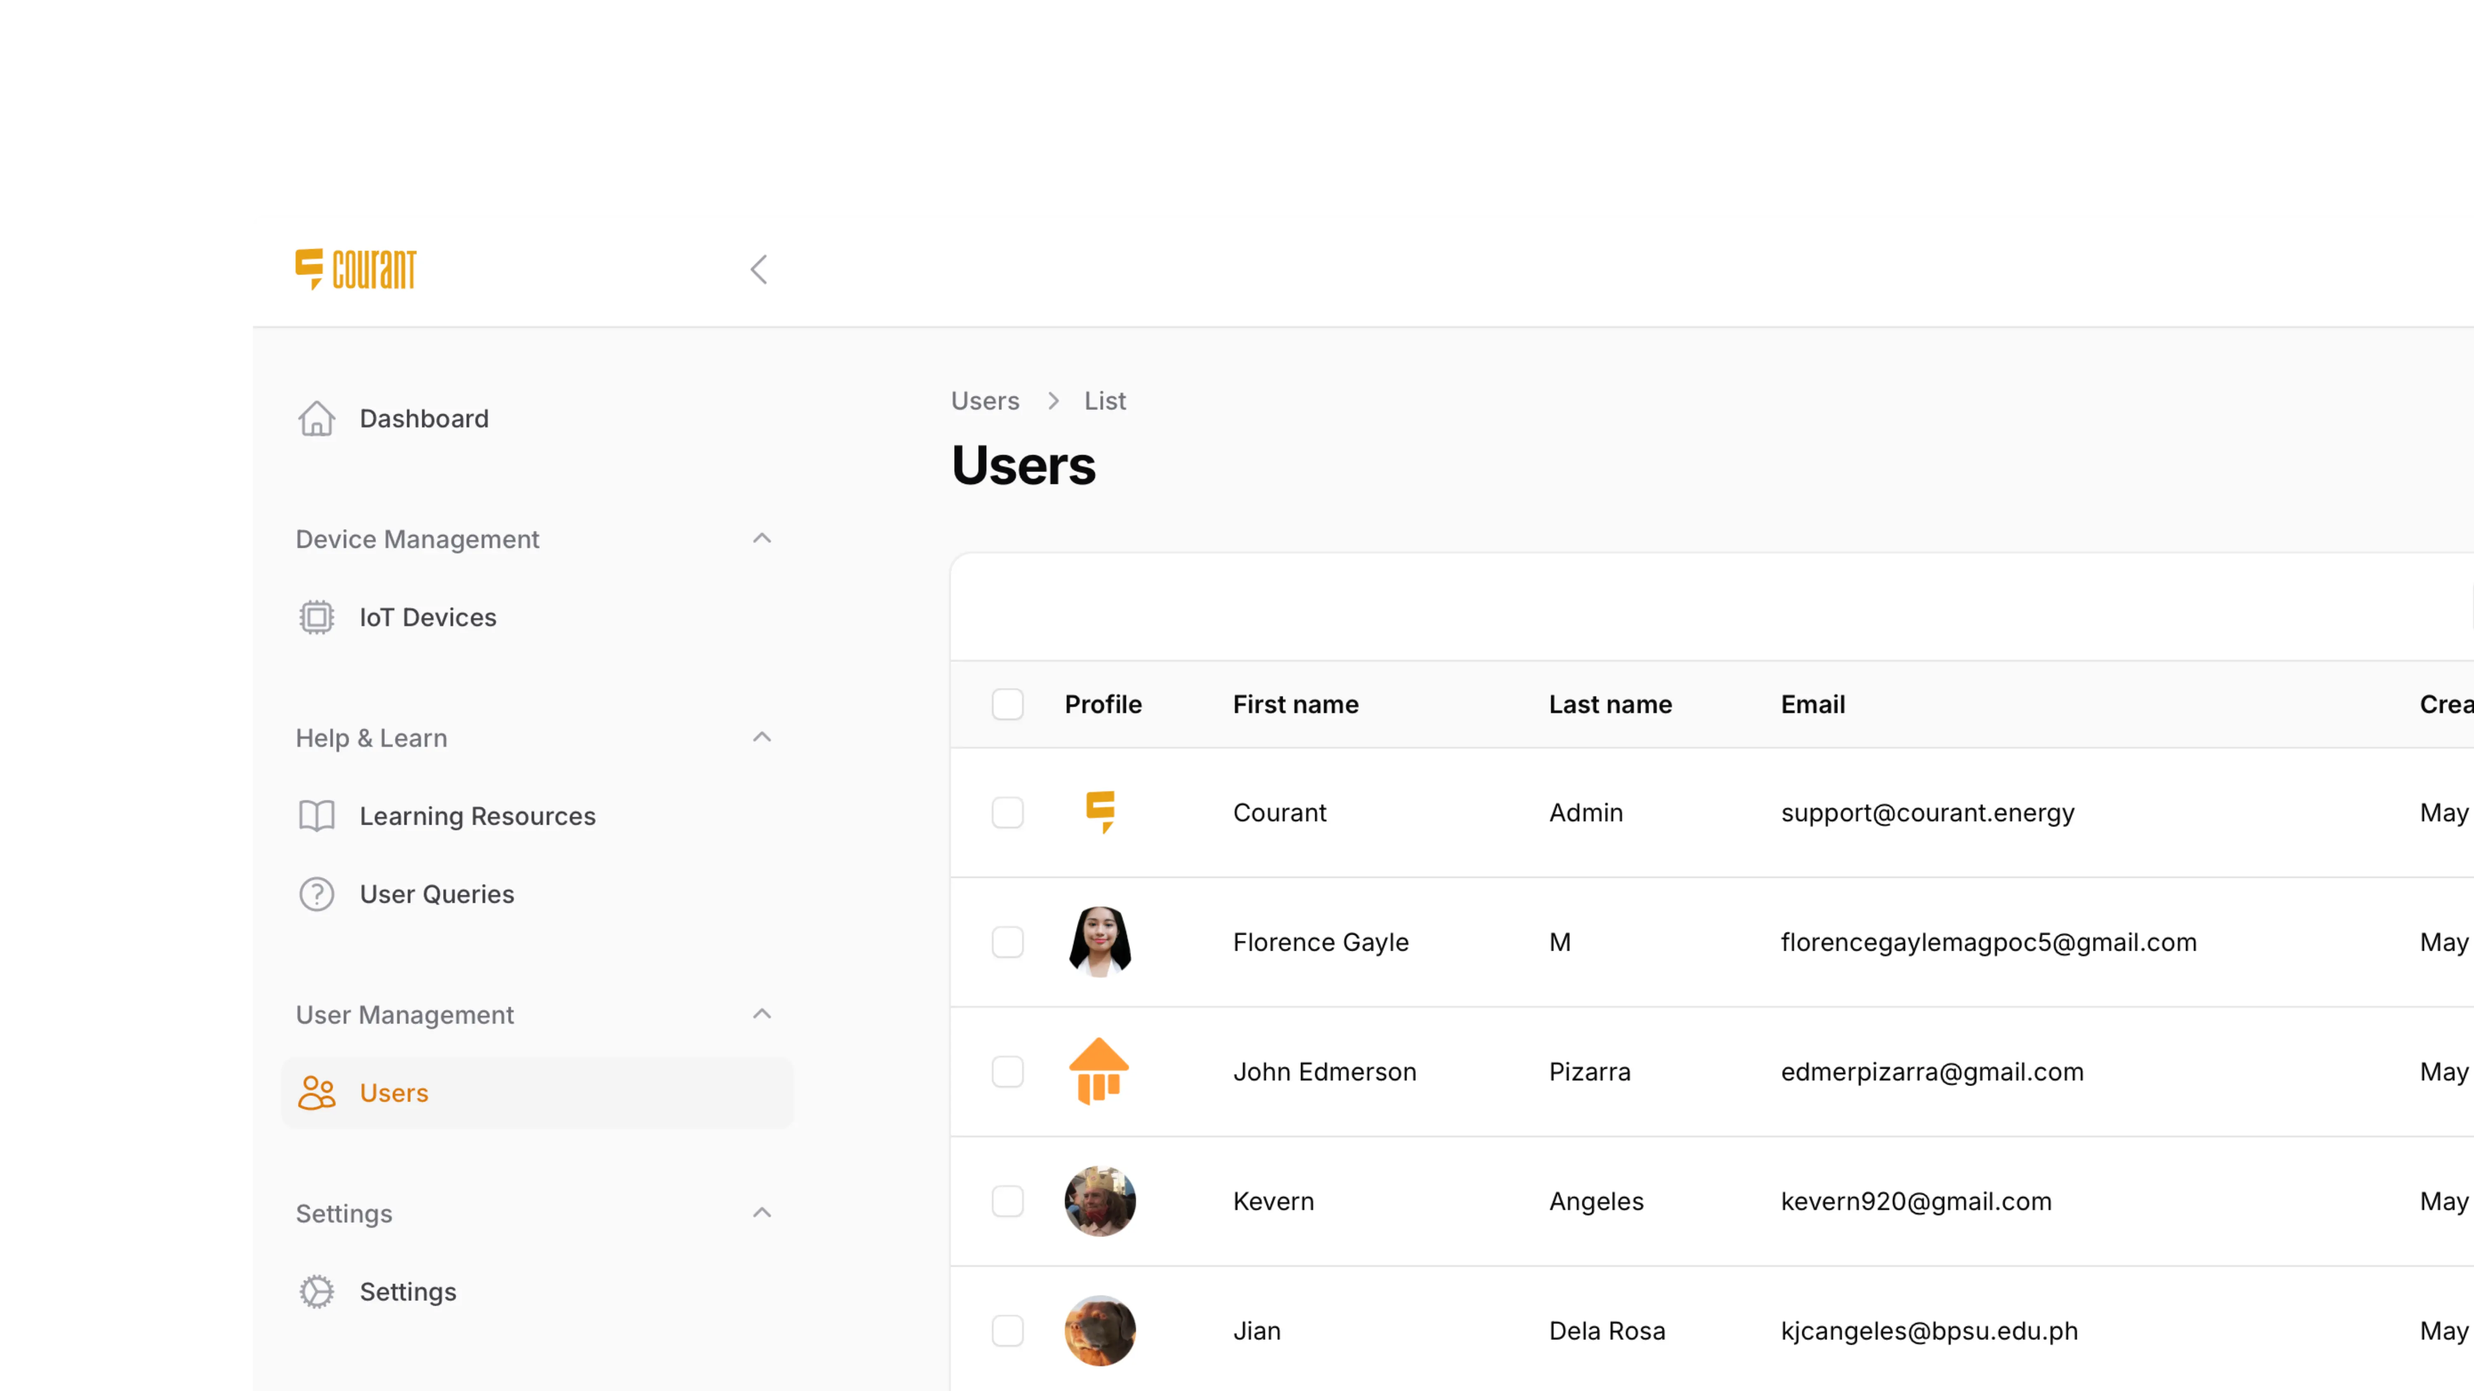
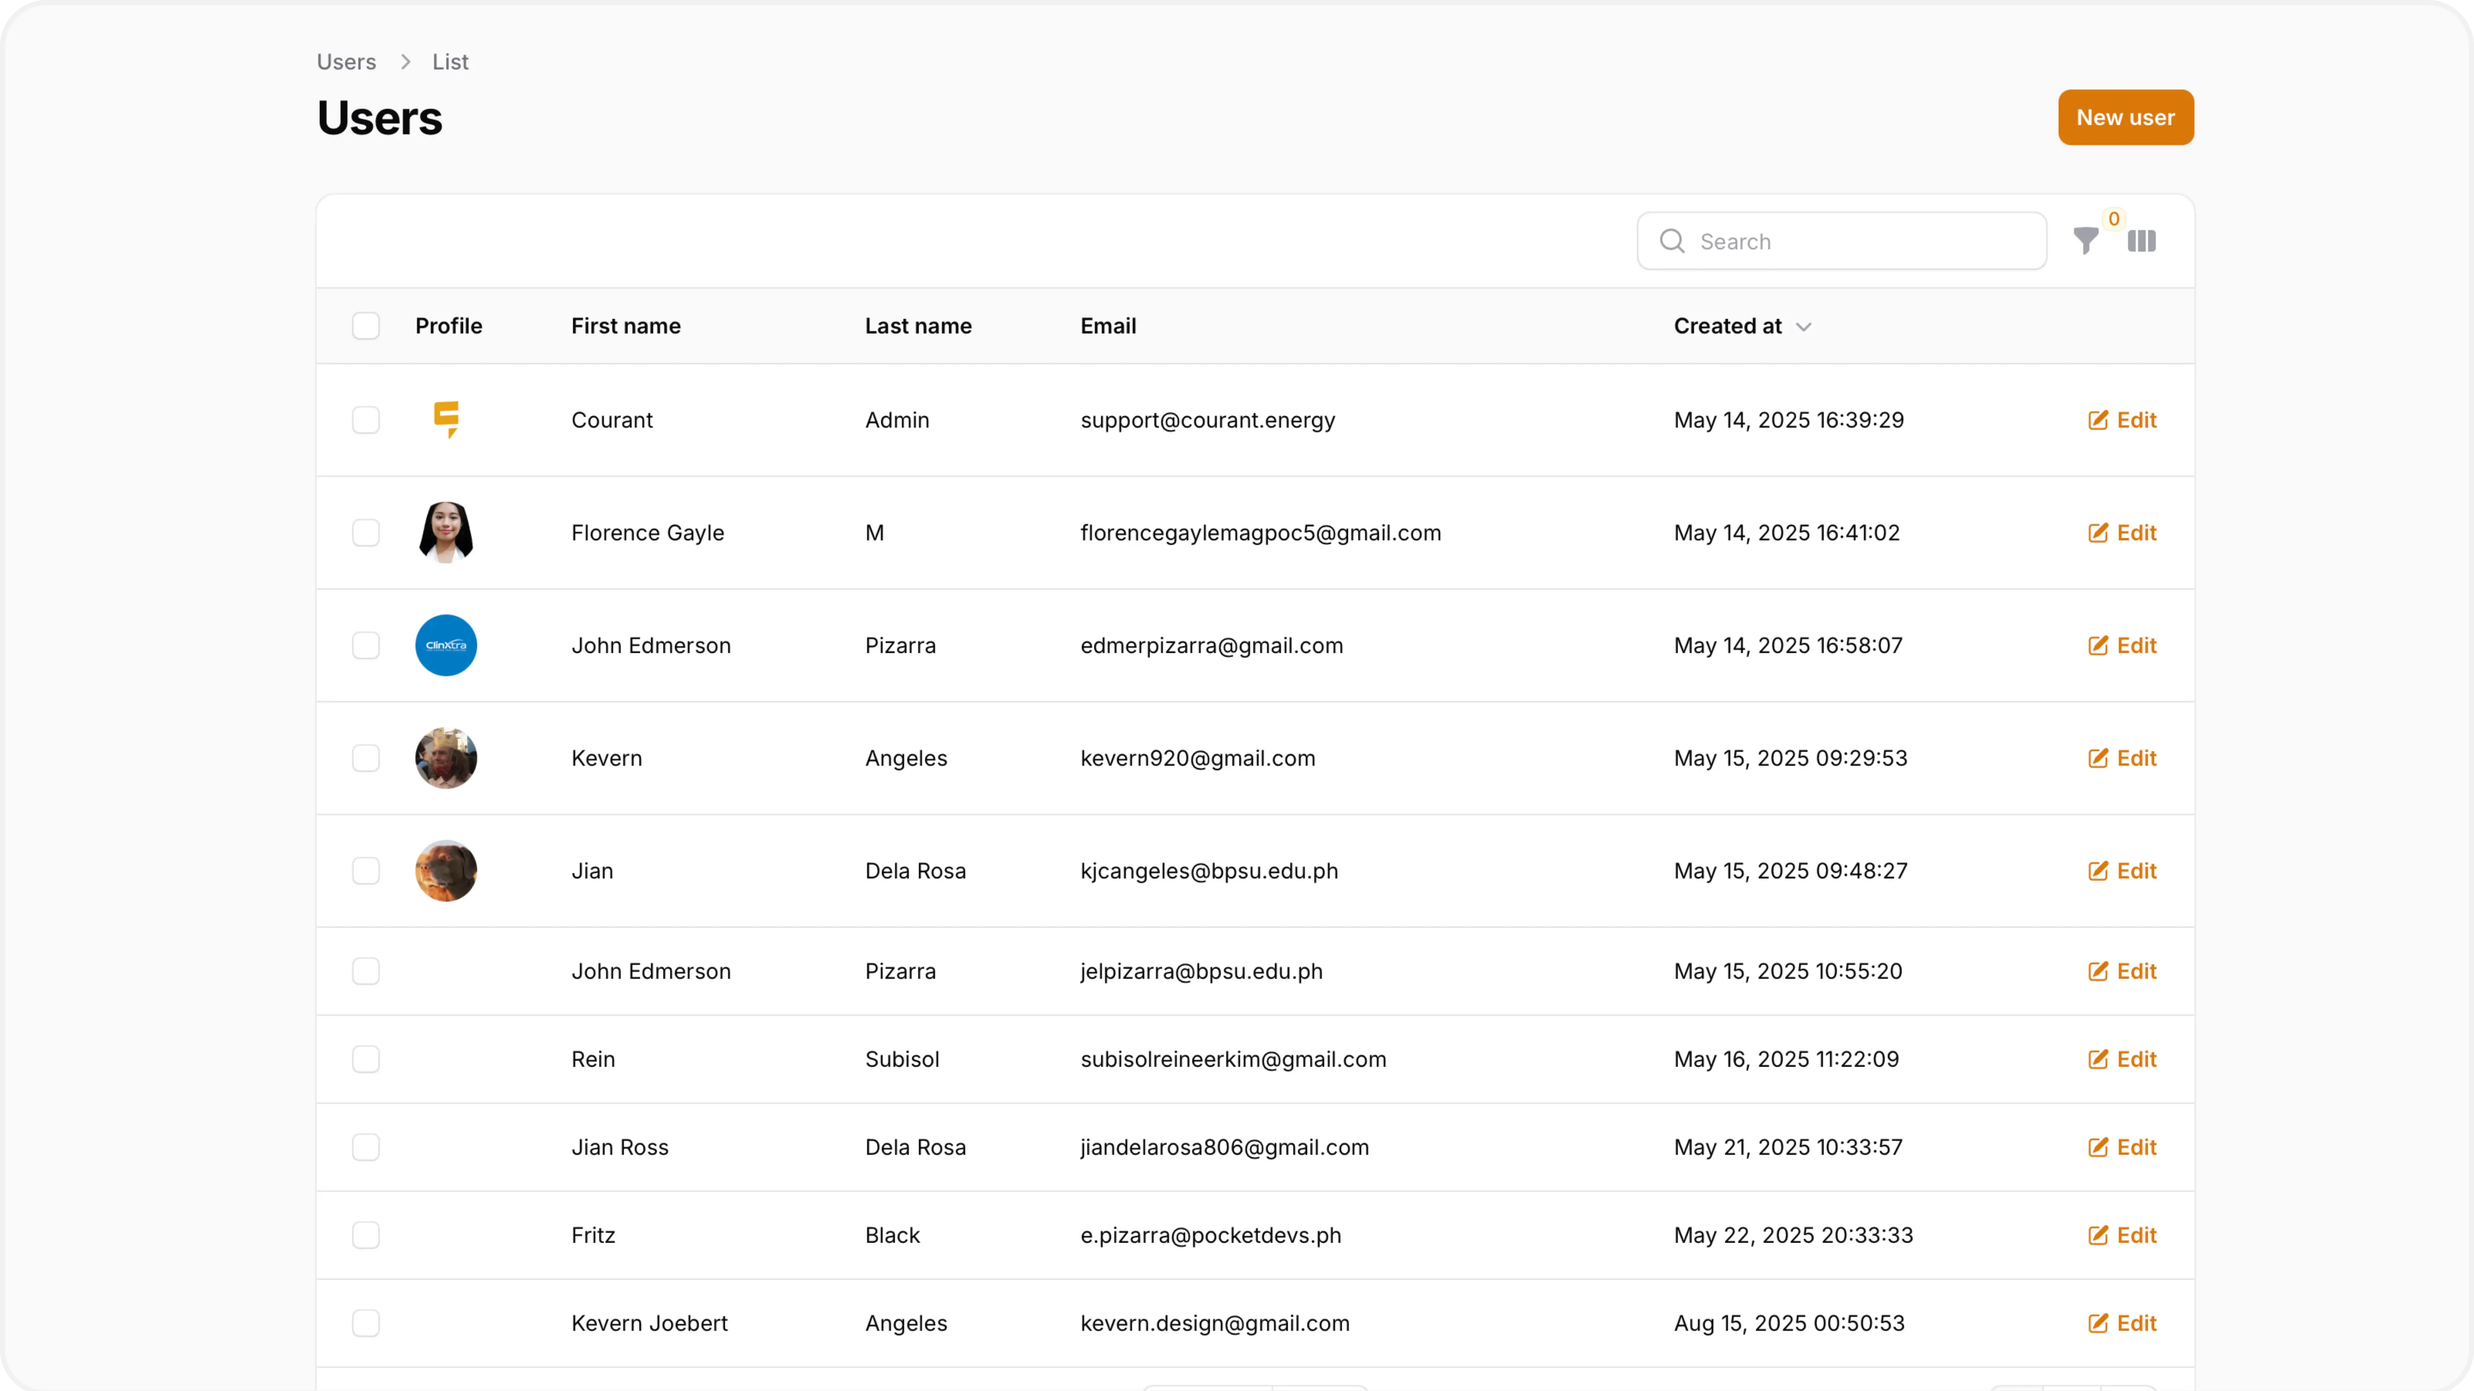
chore: clean up animations and add missing images

diff --git a/resources/js/animations/cursorXHeroInteraction.js b/resources/js/animations/cursorXHeroInteraction.js
@@ -1,7 +1,6 @@
 import gsap from "gsap";
 
 export default function cursorXHeroInteraction() {
-
     const container = document.querySelector(".mockups-container");
     const track = container?.querySelector(".mockups-track");
 
@@ -28,58 +27,68 @@ export default function cursorXHeroInteraction() {
         return overflow > 0 ? overflow / 1.1 : 0;
     }
 
-    // STEP 2
-    if (isMobile) {
-        // STEP 2A: On mobile, move based on scroll position
-        window.addEventListener("scroll", () => {
-            const containerTop = container.offsetTop;
-            const scrollY = window.scrollY;
-            const containerHeight = container.offsetHeight;
-            const viewportHeight = window.innerHeight;
+    // STEP 2: Use IntersectionObserver to start animation when container is visible
+    const observer = new IntersectionObserver(
+        (entries) => {
+            entries.forEach((entry) => {
+                if (entry.isIntersecting) {
+                    if (isMobile) {
+                        // STEP 2A: On mobile, move based on scroll position
+                        window.addEventListener("scroll", () => {
+                            const containerTop = container.offsetTop;
+                            const scrollY = window.scrollY;
+                            const containerHeight = container.offsetHeight;
+                            const viewportHeight = window.innerHeight;
 
-            const progress = gsap.utils.clamp(
-                0,
-                1,
-                (scrollY + viewportHeight - containerTop) / (containerHeight + viewportHeight)
-            );
+                            const progress = gsap.utils.clamp(
+                                0,
+                                1,
+                                (scrollY + viewportHeight - containerTop) / (containerHeight + viewportHeight)
+                            );
 
-            const shiftX = gsap.utils.clamp(
-                -getMaxShift(),
-                getMaxShift(),
-                gsap.utils.mapRange(0, 1, getMaxShift(), -getMaxShift(), progress)
-            );
-            console.log('shiftX:', shiftX);
-            
+                            const shiftX = gsap.utils.clamp(
+                                -getMaxShift(),
+                                getMaxShift(),
+                                gsap.utils.mapRange(0, 1, getMaxShift() + containerHeight + 100, -getMaxShift(), progress)
+                            );
+                            console.log('shiftX:', shiftX);
 
-            gsap.to(track, {
-                x: shiftX,
-                duration: 0.4,
-                ease: "power2.out"
+                            gsap.to(track, {
+                                x: shiftX,
+                                duration: 0.4,
+                                ease: "power2.out"
+                            });
+                        });
+                    } else {
+                        // STEP 2B: Track mouse X movement for horizontal shift
+                        container.addEventListener("mousemove", (e) => {
+                            const bounds = container.getBoundingClientRect();
+                            const x = e.clientX - bounds.left;
+                            const percent = x / bounds.width;
+
+                            const shiftX = gsap.utils.mapRange(0, 1, getMaxShift(), -getMaxShift(), percent);
+
+                            gsap.to(track, {
+                                x: shiftX,
+                                duration: 0.4,
+                                ease: "power2.out"
+                            });
+                        });
+
+                        // STEP 3: Reset X position on mouse leave
+                        container.addEventListener("mouseleave", () => {
+                            gsap.to(track, {
+                                x: 0,
+                                duration: 0.6,
+                                ease: "power3.out"
+                            });
+                        });
+                    }
+                }
             });
-        });
-    } else {
-        // STEP 2B: Track mouse X movement for horizontal shift
-        container.addEventListener("mousemove", (e) => {
-            const bounds = container.getBoundingClientRect();
-            const x = e.clientX - bounds.left;
-            const percent = x / bounds.width;
+        },
+        { threshold: 0.8 } // Trigger when at least 10% of the container is visible
+    );
 
-            const shiftX = gsap.utils.mapRange(0, 1, getMaxShift(), -getMaxShift(), percent);
-
-            gsap.to(track, {
-                x: shiftX,
-                duration: 0.4,
-                ease: "power2.out"
-            });
-        });
-
-        // STEP 3: Reset X position on mouse leave
-        container.addEventListener("mouseleave", () => {
-            gsap.to(track, {
-                x: 0,
-                duration: 0.6,
-                ease: "power3.out"
-            });
-        });
-    }
+    observer.observe(container);
 }

diff --git a/resources/js/animations/heroSubtext.js b/resources/js/animations/heroSubtext.js
@@ -10,10 +10,15 @@ export default function heroSubtext() {
 
     const isMobile = window.matchMedia("(max-width: 768px)").matches;
 
+// Prevent animations on mobile
+if (isMobile) {
+    return;
+}
+
     // Animate heading
     gsap.fromTo(
         heading,
-        { y: isMobile ? 150 : 200 },
+        { y: 200 },
         {
             y: 0,
             duration: 0.75,
@@ -21,7 +26,7 @@ export default function heroSubtext() {
             scrollTrigger: {
                 trigger: heading,
                 start: isMobile ? 'top 30%' : 'top 40%',
-                toggleActions: 'play none none none', // No reverse animation
+                toggleActions: 'play none none none',
                 markers: false,
             }
         }
@@ -54,7 +59,7 @@ export default function heroSubtext() {
                 trigger: wrapper,
                 start: 'top top',
                 end: '+=300',
-                toggleActions: 'play none none none', // Prevent reverse
+                toggleActions: 'play none none none',
                 markers: false,
             }
         }

diff --git a/resources/js/app.js b/resources/js/app.js
@@ -6,6 +6,7 @@ import sectionHeaderBlur from './animations/sectionHeaderBlur.js';
 import featureHover from './animations/featureHover.js';
 import numCounter from './animations/numCounter.js';
 import missionImgFloat from './animations/missionImgFloat.js';
+import mockupFloatUp from './animations/mockupFloatUp.js';
 
 document.addEventListener('DOMContentLoaded', () => {
     document.querySelectorAll('[data-animation]').forEach(el => {
@@ -23,4 +24,5 @@ document.addEventListener('DOMContentLoaded', () => {
     featureHover();
     numCounter();
     missionImgFloat();
+    mockupFloatUp();
 });

diff --git a/resources/js/animations/mockupFloatUp.js b/resources/js/animations/mockupFloatUp.js
@@ -1,0 +1,24 @@
+import gsap from "gsap";
+
+export default function mockupFloatUp() {
+    //for each MainMockup, float up by 50px one after the other
+    const MainMockup = document.querySelector(".main-mockups");
+
+    gsap.set("[x-ref*='mockup-']", {
+        rotationX: -35,
+        rotationY: 15,
+        transformOrigin: "center center"
+    });
+
+    gsap.fromTo("[x-ref*='mockup-']", {
+        y: 50,
+        opacity: 0,
+    }, {
+        y: 0,
+        opacity: 1,
+        duration: 1,
+        ease: "power2.out",
+        stagger: 0.3,
+        delay: 2,
+    });
+}

diff --git a/resources/views/livewire/hero-animation.blade.php b/resources/views/livewire/hero-animation.blade.php
@@ -1,42 +1,61 @@
 <!-- Load Lottie Player -->
 <script src="https://unpkg.com/@lottiefiles/lottie-player@latest/dist/lottie-player.js"></script>
-
-<div 
-  class="relative w-full max-w-7xl h-[500px] flex items-center justify-center overflow-hidden mockups-container"
-  x-data="{
-    cards: [
-      { aspect: 'aspect-[1/1]', image: '/images/SquareImg.webp' },
-      { aspect: 'aspect-[16/10]', showLogo: true },
-      { aspect: 'aspect-[9/19.5]', image: '/images/MobileMockup.webp' },
-      { aspect: 'aspect-[1/1.414]', image: '/images/mockup3.png' },
-    ]
-  }"
+<div
+class="relative w-full max-w-7xl h-[500px] flex items-center justify-center overflow-hidden mockups-container"
+x-data="{
+ cards: [
+ { aspect: 'aspect-[1/1]', image: '/images/SquareImg.webp' },
+ { aspect: 'aspect-[16/10]', images: ['/images/MainMockup1.webp','/images/MainMockup2.webp','/images/MainMockup3.webp'], showLogo: true },
+ { aspect: 'aspect-[9/19.5]', image: '/images/MobileMockup.webp' },
+ { aspect: 'aspect-[1/1]', image: '/images/DesktopMockup.webp' },
+ ]
+ }"
 >
-  <div class="mockups-track absolute inset-0 flex items-left justify-left md:items-center md:justify-center gap-2 px-4 pointer-events-none scale-[0.7] md:scale-[1.25] max-w-full overflow-visible">
-    
-    <template x-for="(card, index) in cards" :key="index">
-      <div 
-        :class="`h-full ${card.aspect} p-3 bg-gray-200 rounded-sm shadow-inner border border-gray-400/50 flex items-center justify-center overflow-hidden flex-shrink-0`"
-      >
-        <!-- Show Lottie if specified -->
-        <template x-if="card.showLogo">
-          <div class="w-full h-full flex items-center justify-center" wire:ignore>
-            <lottie-player 
-              src='{{ asset("logo-ani.json") }}' 
-              background="transparent"  
-              speed="1"
-              style="width: 300px; height: 300px;"  
-              autoplay
-            ></lottie-player>
-          </div>
-        </template>
+<div class="mockups-track absolute inset-0 flex items-left justify-left md:items-center md:justify-center gap-2 px-4 pointer-events-none scale-[0.7] md:scale-[1.25] max-w-full overflow-visible">
+<template x-for="(card, index) in cards" :key="index">
+<div
+:class="`h-full ${card.aspect} p-3 bg-gray-200 rounded-sm shadow-inner border border-gray-400/50 flex items-center justify-center overflow-hidden flex-shrink-0 relative ${index === 0 ? 'hidden md:flex' : ''}`"
+>
+<!-- Show multiple images stacked if specified -->
+<template x-if="card.images">
+<div class="absolute inset-3 overflow-hidden bg-black">
+<template x-for="(img, imgIndex) in card.images" :key="imgIndex">
+<img 
+:src="img" 
+alt="Mockup Image" 
+class="absolute w-full h-full main-mockups" 
+:x-ref="`mockup-${index}-${imgIndex}`"
+:style="`
+transform: translateZ(${imgIndex * 100}px) scale(0.7); 
+z-index: ${imgIndex + 1};
+top: ${imgIndex * 20}px;
+left: ${imgIndex * 100}px;
+`"
+/>
+</template>
+<!-- Gradient overlay above image -->
+<div class="absolute bottom-0 left-0 w-full h-[500px] bg-gradient-to-t from-black to-transparent z-10"></div>
+</div>
+</template>
 
-        <!-- Show Image if specified -->
-        <template x-if="card.image && !card.showLogo">
-          <img :src="card.image" alt="Mockup Image" class="object-cover w-full h-full rounded-sm" />
-        </template>
-      </div>
-    </template>
-    
-  </div>
+<!-- Show Lottie if specified (will appear in front) -->
+<template x-if="card.showLogo">
+<div class="relative z-50 w-full h-full flex items-center justify-center" wire:ignore>
+<lottie-player
+src='{{ asset("logo-ani.json") }}'
+background="transparent"
+speed="1"
+style="width: 300px; height: 300px;"
+autoplay
+></lottie-player>
+</div>
+</template>
+
+<!-- Show single Image if specified -->
+<template x-if="card.image && !card.showLogo && !card.images">
+<img :src="card.image" alt="Mockup Image" class="object-cover w-full h-full rounded-sm" />
+</template>
+</div>
+</template>
+</div>
 </div>

diff --git a/resources/views/livewire/mission-grid.blade.php b/resources/views/livewire/mission-grid.blade.php
@@ -6,7 +6,7 @@
             {
                 number: '30%', 
                 subtext: 'Average Energy Savings',
-                img: 'images/SquareImg.webp'
+                img: 'images/Dashboard.webp'
             },
             {
                 number: '10k+', 
@@ -16,12 +16,12 @@
             {
                 number: '24/7', 
                 subtext: 'Monitoring',
-                img: ''
+                img: 'images/MonitoringGraph.webp'
             },
             {
                 number: '100%', 
                 subtext: 'Renewable Focus',
-                img: ''
+                img: 'images/RenewableFocus.webp'
             },
             ]
         }"
@@ -44,9 +44,15 @@
                 <p class="text-base z-10 mb-8" x-text="card.subtext"></p>
             </div>
             <!-- Image wrapper directly below <p> -->
-            <div class="relative w-full aspect-[1/1] overflow-hidden">
+            <div class="relative flex-1 w-full aspect-[1/1] pt-20 overflow-hidden">
                 <img 
-                    class="absolute top-0 left-0 w-full h-auto z-0 mission-img"
+                    class="absolute bottom-0 left-20 w-full h-auto z-0 mission-img"
+                    :style="{
+                        transform
+                        : index === 0 ? 'scale(1.5)'
+                        : index === 2 ? 'rotate3d(-1, 1, 0, 35deg)'
+                        : ''
+                    }"
                     :src="card.img"
                 />
                 <!-- Gradient overlay above image -->
